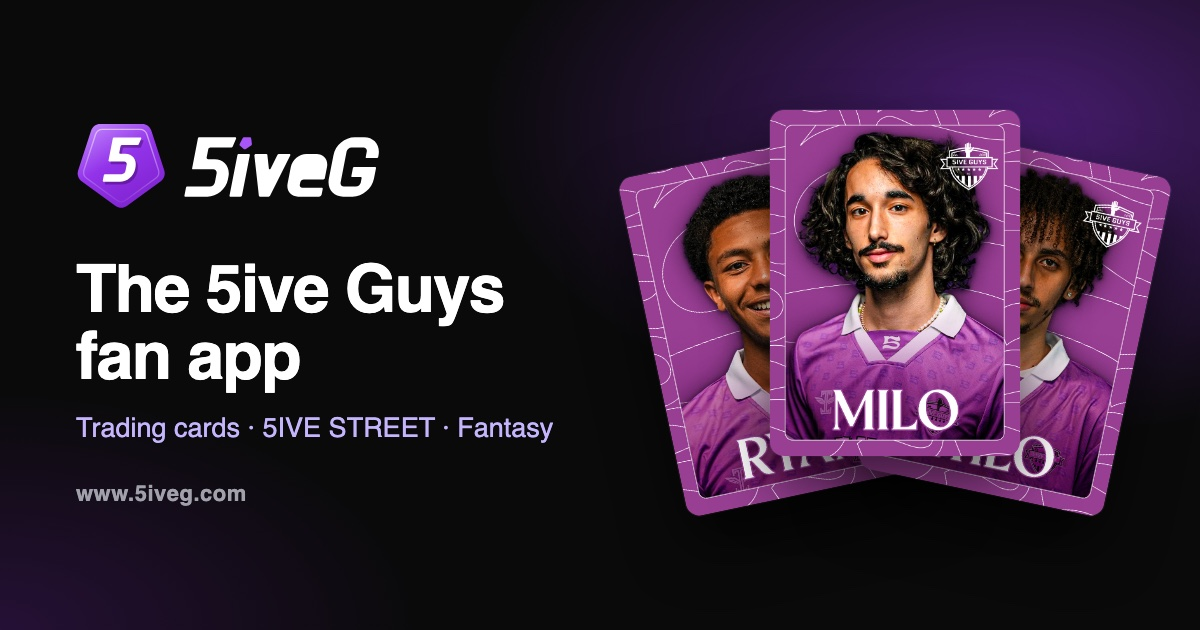
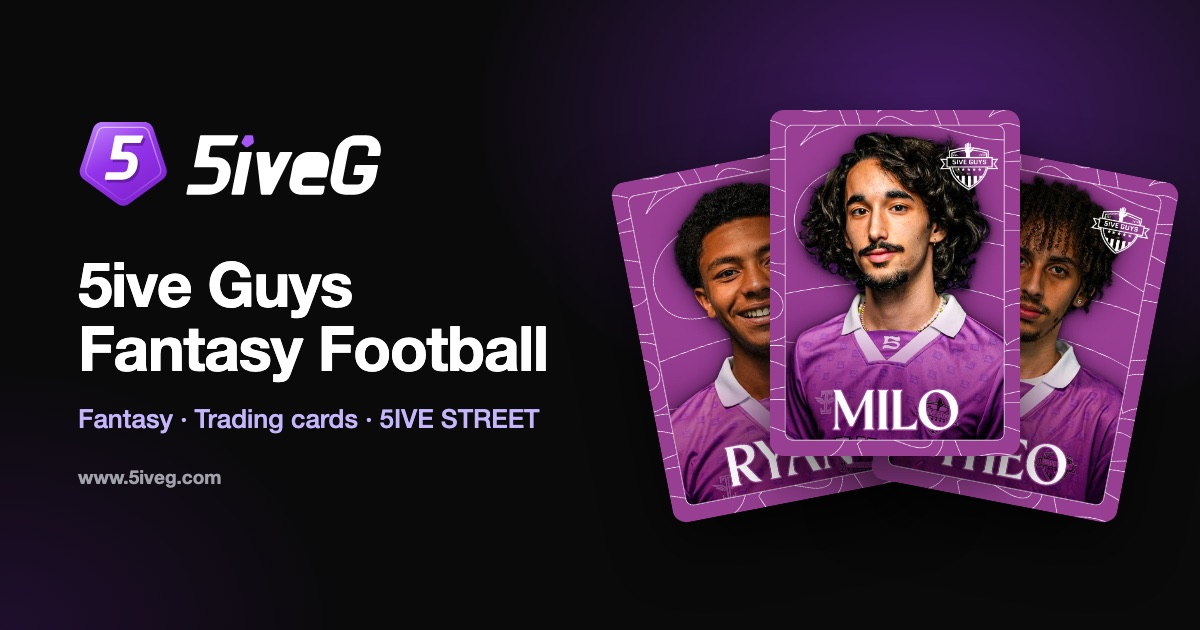
fix(web): call 5iveG the fantasy football app, match the legal pages to the app
The owner: "dont call it a fan app. just call it a fantasy football app for
our youtube channel". The App Store build is now fantasy-only, so the
privacy, terms and support pages App Review reads should describe it.

- Site title and link previews: "5iveG · 5ive Guys Fantasy Football";
  home eyebrow, footer, manifest and the description say "the fantasy
  football app for the 5ive Guys YouTube channel". The link-preview image
  is re-rendered with the new headline.
- Privacy/terms/support: drop "independent fan project" from the
  disclaimer (not affiliated with YouTube, Google or Apple stays).
- Terms: the app is free fantasy football (pick a team, rate players,
  MOTM, private leagues) with no in-app purchases and no prizes; the
  website adds cards, points, 5IVE STREET and the printed-pack shop. The
  "Player packs" in-app purchase section is gone (the card rule moves to
  "Points and cards").
- Privacy: YouTube access is website-only (the app's Google sign-in asks
  for name, email and picture); app activity covers fantasy, ratings and
  MOTM votes; the in-app purchase data and its retention line are gone.
- Support: points are on the website; the "Connect YouTube" FAQ (a tab
  the app no longer has) becomes how to vote for Man of the Match.

diff --git a/app/privacy/page.tsx b/app/privacy/page.tsx
@@ -17,19 +17,19 @@ export default function PrivacyPage() {
         <section className="space-y-3">
           <h2 className="text-white font-semibold text-base">Overview</h2>
           <p>
-            5iveG (&ldquo;the App&rdquo;, on the web and on iPhone) is a fan-made app for the 5ive Guys and Other Guys
-            YouTube channels. Fans get points for being fans, rate players, play games and run a fantasy team. We only
-            use your data to run the App. We do not sell, share, or monetise it.
+            5iveG (&ldquo;the App&rdquo;, on the web and on iPhone) is the fantasy football app for the 5ive Guys
+            YouTube channel. In the iPhone app you run a fantasy team, rate the players and vote for Man of the Match.
+            The website also has trading cards, points for fans of the 5ive Guys and Other Guys YouTube channels, and
+            games. We only use your data to run the App. We do not sell, share, or monetise it.
           </p>
         </section>
 
         <section className="space-y-3">
           <h2 className="text-white font-semibold text-base">Data we collect</h2>
           <ul className="space-y-2 list-disc list-inside">
-            <li><span className="text-white font-medium">Account info</span> — your name, email address and profile picture from Google, or the name and email (which may be an Apple private relay address) from Sign in with Apple. Used to identify your account and show your name on leaderboards.</li>
-            <li><span className="text-white font-medium">YouTube channel activity</span> — if you connect YouTube: whether you subscribe to the channels in the App and which of their videos you have rated. Used to show your fan activity and work out your fan points.</li>
-            <li><span className="text-white font-medium">Activity in the App</span> — your points, cards, player ratings, fantasy team, game results, and time spent watching channel videos in the App&rsquo;s player.</li>
-            <li><span className="text-white font-medium">Purchases</span> — when you buy a player pack in the iPhone app: the App Store transaction ID, price, currency, the player you picked, when you bought it and the cards you got. Apple takes the payment; we never see your card or bank details.</li>
+            <li><span className="text-white font-medium">Account info</span> — your name, email address and profile picture from Google, or the name and email (which may be an Apple private relay address) from Sign in with Apple. Used to identify your account and show your name on leaderboards and in fantasy leagues.</li>
+            <li><span className="text-white font-medium">YouTube channel activity</span> — website only. Signing in with Google on the website asks for access to your YouTube account, so we can see whether you subscribe to the channels on the site and which of their videos you have rated. Used to show your fan activity and work out your fan points. The iPhone app&rsquo;s Google sign-in asks only for your name, email and profile picture, not your YouTube account.</li>
+            <li><span className="text-white font-medium">Activity in the App</span> — your fantasy team, transfers and leagues, player ratings and Man of the Match votes; on the website also your points, cards, game results, and time spent watching channel videos in the website&rsquo;s video player.</li>
             <li><span className="text-white font-medium">Shop orders</span> — when you buy printed card packs on the website: your name, email, delivery address, the packs you bought and what you paid. Stripe takes the payment; we never see your card details.</li>
             <li><span className="text-white font-medium">Support messages</span> — the name, email and message you send through the support form, so we can reply.</li>
           </ul>
@@ -39,9 +39,9 @@ export default function PrivacyPage() {
         <section className="space-y-3">
           <h2 className="text-white font-semibold text-base">How we use your data</h2>
           <ul className="space-y-2 list-disc list-inside">
-            <li>Running your account: points, cards, ratings, games and your fantasy team.</li>
-            <li>Delivering the packs you buy (in the app, or by post for printed packs), and paying each player their share of their packs.</li>
-            <li>Showing your name, avatar and points on fan leaderboards.</li>
+            <li>Running your account: your fantasy team and leagues, ratings and Man of the Match votes, and on the website your points, cards and games.</li>
+            <li>Posting the printed packs you buy from the website shop, and paying each player their share of their packs.</li>
+            <li>Showing your name, avatar and points on fan leaderboards, and your name, avatar and team in fantasy league tables.</li>
             <li>Replying to support requests.</li>
           </ul>
           <p>
@@ -53,8 +53,8 @@ export default function PrivacyPage() {
         <section className="space-y-3">
           <h2 className="text-white font-semibold text-base">Google OAuth scopes used</h2>
           <ul className="space-y-2 list-disc list-inside">
-            <li><code className="text-purple-400 text-xs">openid</code>, <code className="text-purple-400 text-xs">email</code>, <code className="text-purple-400 text-xs">profile</code> — basic Google identity.</li>
-            <li><code className="text-purple-400 text-xs">https://www.googleapis.com/auth/youtube.force-ssl</code> — used only to read your subscription status and video ratings for the channels in the App. We never post, comment, rate or subscribe on your behalf.</li>
+            <li><code className="text-purple-400 text-xs">openid</code>, <code className="text-purple-400 text-xs">email</code>, <code className="text-purple-400 text-xs">profile</code> — basic Google identity. This is all the iPhone app asks for.</li>
+            <li><code className="text-purple-400 text-xs">https://www.googleapis.com/auth/youtube.force-ssl</code> — asked for only when you sign in with Google on the website, and used only to read your subscription status and video ratings for the channels on the site. We never post, comment, rate or subscribe on your behalf.</li>
           </ul>
           <p>
             The App&rsquo;s use of information received from Google APIs adheres to the{" "}
@@ -70,8 +70,7 @@ export default function PrivacyPage() {
           <p>
             Your data is kept for as long as you have an account. In the iPhone app, Settings → Delete account
             permanently deletes your account and everything linked to it, and revokes the App&rsquo;s access to your
-            Google and Apple accounts. Records of packs you bought are kept without your name or account, for our
-            accounts and the players&rsquo; earnings. Printed pack orders are kept for six years, as UK accounting
+            Google and Apple accounts. Printed pack orders are kept for six years, as UK accounting
             rules require. You can also ask us to delete it through the{" "}
             <a href="/support" className="text-purple-400 underline hover:text-purple-300">support page</a>. You can
             remove the App&rsquo;s YouTube access at any time from your{" "}
@@ -101,8 +100,8 @@ export default function PrivacyPage() {
         </section>
 
         <p className="text-zinc-700 text-xs pt-4 border-t border-zinc-900">
-          5iveG is an independent fan project and is not affiliated with, endorsed by, or sponsored by
-          YouTube, Google LLC, Apple Inc., or any related entities.
+          5iveG is not affiliated with, endorsed by, or sponsored by YouTube, Google LLC, Apple Inc., or any
+          related entities.
         </p>
       </div>
       </div>

diff --git a/app/terms/page.tsx b/app/terms/page.tsx
@@ -18,7 +18,7 @@ export default function TermsPage() {
         <section className="space-y-3">
           <h2 className="text-white font-semibold text-base">Acceptance</h2>
           <p>
-            By accessing or using 5iveG (&ldquo;the App&rdquo;), you agree to these Terms.
+            By accessing or using 5iveG (&ldquo;the App&rdquo;, on the web and on iPhone), you agree to these Terms.
             If you do not agree, do not use the App.
           </p>
         </section>
@@ -26,9 +26,18 @@ export default function TermsPage() {
         <section className="space-y-3">
           <h2 className="text-white font-semibold text-base">The App</h2>
           <p>
-            The App is a free fan app for the 5ive Guys and Other Guys YouTube channels, with optional player packs
-            you can buy (below) and printed card packs sold on the website. Points, cards and fantasy scores have no real-world monetary value and cannot be
-            exchanged for cash or prizes.
+            The App is the free fantasy football app for the 5ive Guys YouTube channel. In the iPhone app you pick a
+            fantasy team from the 5ive Guys squad, rate the players, vote for Man of the Match and play in private
+            leagues with your friends; fantasy football and player ratings are on the website too. The iPhone app has
+            no in-app purchases.
+          </p>
+          <p>
+            The website also has trading cards and points for the 5ive Guys and Other Guys YouTube channels, the
+            5IVE STREET game, and printed card packs sold in the website shop (below).
+          </p>
+          <p>
+            Fantasy football is free to play and has no prizes. Points, cards and fantasy scores have no real-world
+            monetary value and cannot be exchanged for cash or prizes.
           </p>
         </section>
 
@@ -42,38 +51,15 @@ export default function TermsPage() {
         </section>
 
         <section className="space-y-3">
-          <h2 className="text-white font-semibold text-base">Points and cards</h2>
+          <h2 className="text-white font-semibold text-base">Points and cards (website)</h2>
           <p>
-            You get points for being a fan. We reserve the right to adjust point values, add or remove card
-            types, or change how points work at any time without notice.
+            On the website you get points for being a fan. We reserve the right to adjust point values, add or remove
+            card types, or change how points work at any time without notice.
           </p>
-        </section>
-
-        <section className="space-y-3">
-          <h2 className="text-white font-semibold text-base">Player packs</h2>
-          <ul className="space-y-2 list-disc list-inside">
-            <li>
-              Player packs are optional in-app purchases in the iPhone app, sold through the App Store and charged to
-              your Apple ID at the price shown before you buy.
-            </li>
-            <li>
-              Each pack has 5 cards: at least one card of the player you picked (revealed last), and four more cards
-              from the same squad drawn at random. The chances of each rarity are shown in the app before you buy.
-            </li>
-            <li>£1 from every pack goes to the player whose pack it is.</li>
-            <li>
-              Packs are delivered as soon as your payment is confirmed and stay in your account until you open them.
-              Cards you open go into your collection, duplicates included.
-            </li>
-            <li>
-              Refunds are handled by Apple (reportaproblem.apple.com). A refunded pack can no longer be opened, and its
-              player&rsquo;s share is taken back.
-            </li>
-            <li>
-              Cards are just for fun: they cannot be sold, transferred or exchanged for money. If you delete your
-              account, your cards and unopened packs are deleted too and cannot be restored.
-            </li>
-          </ul>
+          <p>
+            Cards are just for fun: they cannot be sold, transferred or exchanged for money. If you delete your
+            account, your points and cards are deleted too and cannot be restored.
+          </p>
         </section>
 
         <section id="shop" className="space-y-3 scroll-mt-6">
@@ -137,8 +123,8 @@ export default function TermsPage() {
         </section>
 
         <p className="text-zinc-700 text-xs pt-4 border-t border-zinc-900">
-          5iveG is an independent fan project and is not affiliated with, endorsed by, or sponsored by
-          YouTube, Google LLC, Apple Inc., or any related entities.
+          5iveG is not affiliated with, endorsed by, or sponsored by YouTube, Google LLC, Apple Inc., or any
+          related entities.
         </p>
       </div>
       </div>

diff --git a/app/support/page.tsx b/app/support/page.tsx
@@ -25,22 +25,17 @@ const FAQ: { q: string; a: React.ReactNode }[] = [
   },
   {
     q: "How do I get points?",
-    a: "You get points for being a fan. Sign in and connect your YouTube account, and they add up on their own.",
+    a: "Points are on the website, not in the iPhone app. You get points for being a fan: sign in on the website, connect your YouTube account, and they add up on their own.",
   },
   {
-    q: "I signed in with Apple. How do I connect YouTube?",
-    a: (
-      <>
-        Tap <span className="text-white">Connect YouTube</span> on the YouTube tab in the app. If that Google account
-        already has its own 5iveG profile, sign out and use Sign in with Google instead.
-      </>
-    ),
+    q: "How do I vote for Man of the Match?",
+    a: "In the iPhone app, open the MOTM tab, pick a 5ive Guys video and tap the player you think was best. You can change your vote whenever you like.",
   },
   {
     q: "How does Fantasy work?",
     a: (
       <>
-        Pick any 7 players from the squad and put them in any position (there are no prices), choose a captain, and score points from their real matches.
+        Pick any 7 players from the squad (there are no prices), choose a captain, and score points from their real matches.
         The full rules are on the{" "}
         <a href="/fantasy" className="text-purple-400 underline hover:text-purple-300">
           Fantasy page
@@ -101,8 +96,7 @@ export default function SupportPage() {
           <a href="/terms" className="underline hover:text-zinc-500">
             Terms of Service
           </a>
-          . 5iveG is an independent fan project and is not affiliated with, endorsed by, or sponsored by YouTube or
-          Google LLC.
+          . 5iveG is not affiliated with, endorsed by, or sponsored by YouTube or Google LLC.
         </p>
       </div>
       </div>

diff --git a/app/layout.tsx b/app/layout.tsx
@@ -3,14 +3,14 @@ import "./globals.css";
 import Providers from "./providers";
 
 const description =
-  "Printed 1st Edition trading cards, the 5IVE STREET game and fantasy football for fans of the 5ive Guys YouTube channel.";
+  "The fantasy football app for the 5ive Guys YouTube channel, plus trading cards of the real players and the 5IVE STREET game.";
 
 export const metadata: Metadata = {
   metadataBase: new URL("https://www.5iveg.com"),
-  title: { default: "5iveG · The 5ive Guys fan app", template: "%s · 5iveG" },
+  title: { default: "5iveG · 5ive Guys Fantasy Football", template: "%s · 5iveG" },
   description,
   applicationName: "5iveG",
-  openGraph: { type: "website", siteName: "5iveG", locale: "en_GB", title: "5iveG · The 5ive Guys fan app", description },
+  openGraph: { type: "website", siteName: "5iveG", locale: "en_GB", title: "5iveG · 5ive Guys Fantasy Football", description },
   twitter: { card: "summary_large_image" },
   appleWebApp: { title: "5iveG", statusBarStyle: "black-translucent" },
   verification: {

diff --git a/app/page.tsx b/app/page.tsx
@@ -70,7 +70,7 @@ export default function HomePage() {
         <div className="pointer-events-none absolute inset-0 bg-[radial-gradient(60%_70%_at_75%_10%,rgba(147,51,234,0.30),transparent_70%)]" />
         <div className="relative max-w-6xl mx-auto px-4 sm:px-6 pt-12 pb-16 sm:pt-20 sm:pb-24 grid gap-12 md:grid-cols-[1.1fr_1fr] items-center">
           <div>
-            <p className="text-purple-300 text-xs font-semibold uppercase tracking-[0.2em]">The 5ive Guys fan app</p>
+            <p className="text-purple-300 text-xs font-semibold uppercase tracking-[0.2em]">The fantasy football app for the 5ive Guys YouTube channel</p>
             <h1 className="mt-4 text-4xl sm:text-6xl font-extrabold tracking-tight text-white leading-[1.02]">
               Collect the squad.
               <br />

diff --git a/components/SiteFooter.tsx b/components/SiteFooter.tsx
@@ -38,7 +38,7 @@ export default function SiteFooter({ light }: { light?: boolean }) {
         <div className="space-y-4">
           <Logo className="h-7" ink={light} />
           <p className={`${light ? "text-ink-3" : "text-zinc-500"} text-sm leading-relaxed max-w-xs`}>
-            The fan app for 5ive Guys: printed trading cards, the 5IVE STREET game and fantasy football.
+            The fantasy football app for the 5ive Guys YouTube channel, plus trading cards and the 5IVE STREET game.
           </p>
         </div>
         {COLUMNS.map((c) => (

diff --git a/app/manifest.ts b/app/manifest.ts
@@ -5,7 +5,7 @@ export default function manifest(): MetadataRoute.Manifest {
   return {
     name: "5iveG",
     short_name: "5iveG",
-    description: "Trading cards, games and fantasy football for fans of 5ive Guys.",
+    description: "The fantasy football app for the 5ive Guys YouTube channel.",
     start_url: "/",
     display: "standalone",
     background_color: "#0a0a0a",
